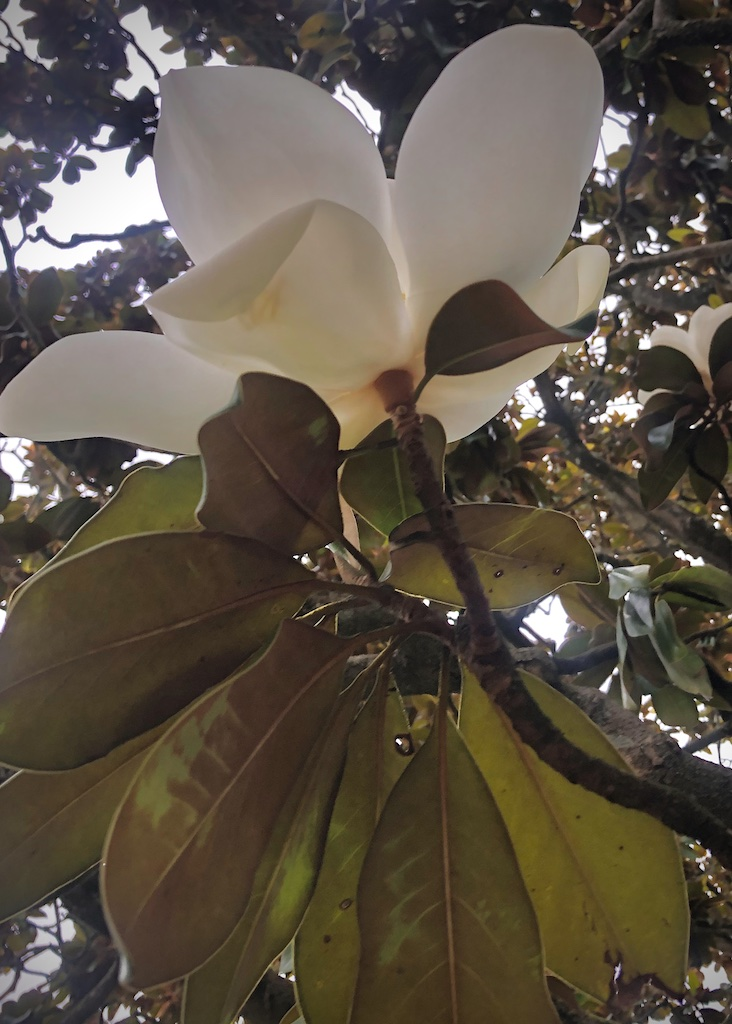
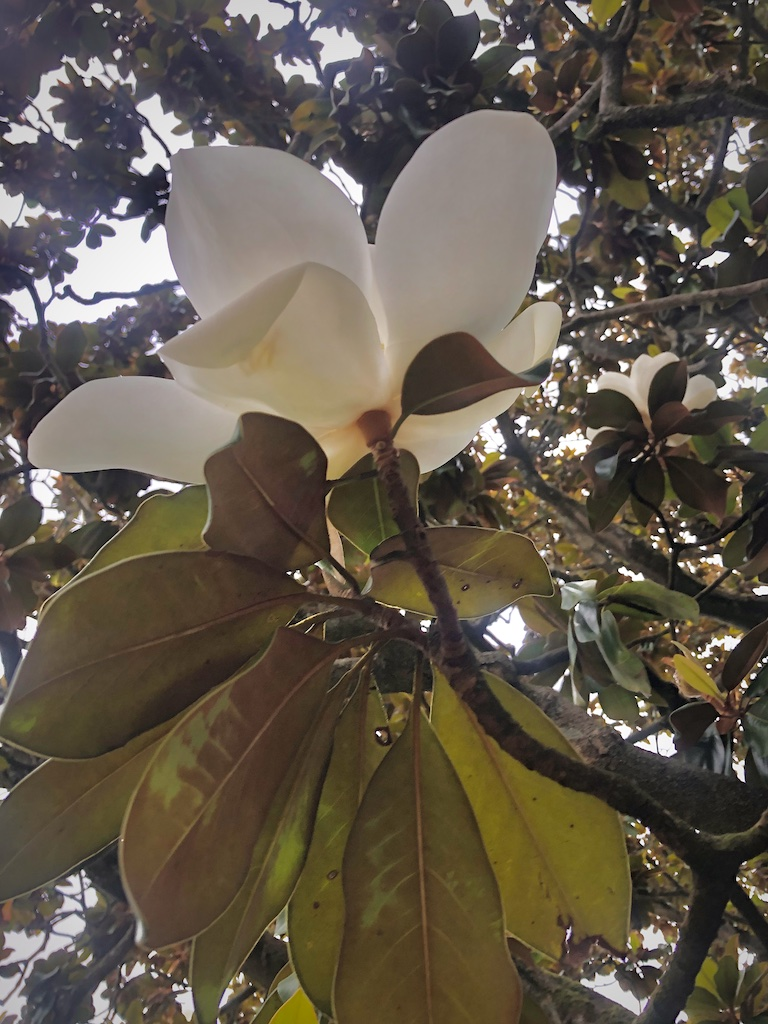
updated flowers post

diff --git a/_photography/flowers.md b/_photography/flowers.md
@@ -14,7 +14,7 @@ So many flowers, so little time...
 
 ![magnolia](./assets/img/photography/nature/flowers/magnolia.jpg){: width="70%"}
 
-#### One lonely magnolia sitting in a tree...
+#### One magnolia, two magnolia sitting in a tree...
 
 ![peony](./assets/img/photography/nature/flowers/peony.jpg){: width="100%"}
 
